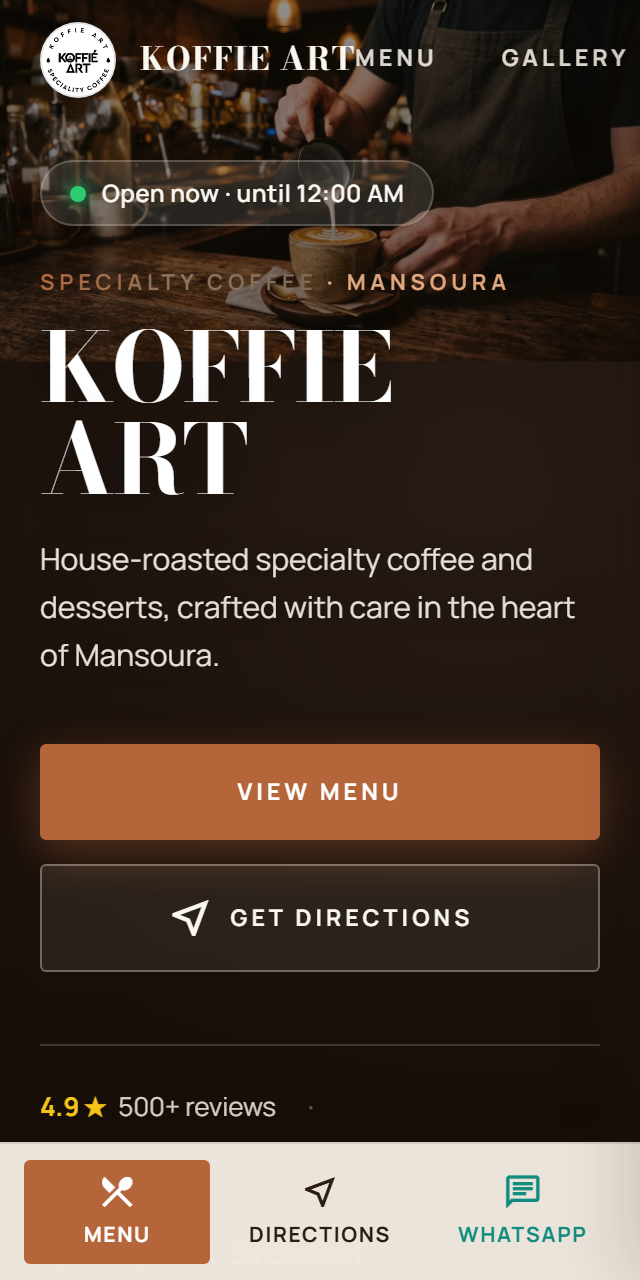
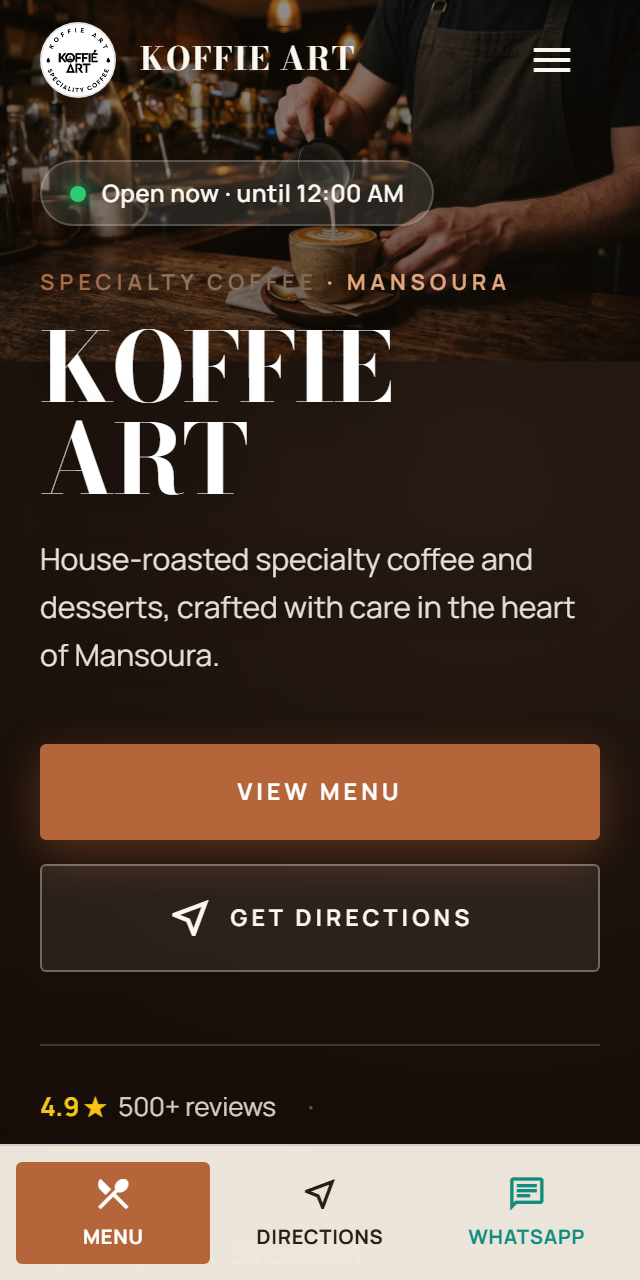
redisin

diff --git a/css/styles.css b/css/styles.css
@@ -64,6 +64,8 @@ body.theme-green,
 html {
     scroll-behavior: smooth;
     overflow-x: hidden;
+    max-width: 100vw;
+    width: 100%;
     -webkit-text-size-adjust: 100%;
 }
 
@@ -73,8 +75,31 @@ body {
     color: var(--ink);
     line-height: 1.6;
     overflow-x: hidden;
+    max-width: 100vw;
+    width: 100%;
     -webkit-font-smoothing: antialiased;
     -moz-osx-font-smoothing: grayscale;
+}
+
+/* Material Symbols Icon Sizing & Ligature containment */
+.material-symbols-outlined {
+    font-family: 'Material Symbols Outlined';
+    font-weight: normal;
+    font-style: normal;
+    font-size: 24px;
+    line-height: 1;
+    letter-spacing: normal;
+    text-transform: none;
+    display: inline-block;
+    white-space: nowrap;
+    word-wrap: normal;
+    direction: ltr;
+    -webkit-font-feature-settings: 'liga';
+    -webkit-font-smoothing: antialiased;
+    max-width: 24px;
+    max-height: 24px;
+    overflow: hidden;
+    vertical-align: middle;
 }
 
 /* Ensure body has bottom padding on mobile for sticky bottom bar */
@@ -363,6 +388,18 @@ input:focus-visible {
     color: #FAF6F0;
 }
 
+.site-nav {
+    display: flex;
+    align-items: center;
+    gap: 28px;
+}
+
+@media (max-width: 767px) {
+    .site-nav {
+        display: none !important;
+    }
+}
+
 .nav-link {
     font-family: 'Manrope', sans-serif;
     font-size: 11.5px;
@@ -422,12 +459,14 @@ input:focus-visible {
     backdrop-filter: blur(4px);
     z-index: 100;
     opacity: 0;
+    visibility: hidden;
     pointer-events: none;
-    transition: opacity 0.3s ease;
+    transition: opacity 0.3s ease, visibility 0.3s;
 }
 
 .mobile-menu-overlay.active {
     opacity: 1;
+    visibility: visible;
     pointer-events: auto;
 }
 
@@ -441,7 +480,7 @@ input:focus-visible {
     background-color: var(--bg);
     z-index: 101;
     padding: 72px 28px 36px;
-    display: flex;
+    display: none;
     flex-direction: column;
     justify-content: space-between;
     box-shadow: -8px 0 32px rgba(43, 29, 20, 0.15);
@@ -450,6 +489,7 @@ input:focus-visible {
 }
 
 .mobile-menu-drawer.active {
+    display: flex;
     transform: translateX(0);
 }
 
@@ -1406,7 +1446,7 @@ input:focus-visible {
     -webkit-backdrop-filter: blur(16px);
     border-top: 1px solid var(--outline-light);
     box-shadow: 0 -4px 20px rgba(43, 29, 20, 0.08);
-    padding-inline: 12px;
+    padding-inline: 8px;
     padding-block-start: 8px;
     padding-block-end: max(8px, env(safe-area-inset-bottom, 16px));
 }
@@ -1415,25 +1455,26 @@ input:focus-visible {
     .mobile-bottom-bar {
         display: flex;
         align-items: center;
-        justify-content: space-around;
-        gap: 8px;
+        justify-content: space-between;
+        gap: 6px;
     }
 }
 
 .bottom-bar-btn {
-    flex: 1;
+    flex: 1 1 0;
+    min-width: 0;
     display: inline-flex;
     flex-direction: column;
     align-items: center;
     justify-content: center;
     gap: 3px;
     min-height: 48px;
-    padding-inline: 6px;
+    padding-inline: 4px;
     padding-block: 6px;
     font-family: 'Manrope', sans-serif;
-    font-size: 10.5px;
+    font-size: 10px;
     font-weight: 700;
-    letter-spacing: 0.08em;
+    letter-spacing: 0.04em;
     text-transform: uppercase;
     text-decoration: none;
     color: var(--ink);
@@ -1614,10 +1655,15 @@ input:focus-visible {
     will-change: opacity, transform;
 }
 
-.reveal { transform: translateY(24px); }
-.reveal-left { transform: translateX(-24px); }
-.reveal-right { transform: translateX(24px); }
-.reveal-scale { transform: scale(0.96); }
+.reveal { transform: translateY(20px); }
+.reveal-left { transform: translateY(20px); }
+.reveal-right { transform: translateY(20px); }
+.reveal-scale { transform: scale(0.97); }
+
+@media (min-width: 768px) {
+    .reveal-left { transform: translateX(-24px); }
+    .reveal-right { transform: translateX(24px); }
+}
 
 .reveal.visible,
 .reveal-left.visible,

diff --git a/index.html b/index.html
@@ -107,7 +107,7 @@
             </a>
 
             <!-- Desktop Nav (Menu, Gallery, Visit, Contact) -->
-            <nav class="hidden md:flex items-center gap-8" aria-label="Main Navigation" style="display: flex; gap: 32px; align-items: center;">
+            <nav class="site-nav" aria-label="Main Navigation">
                 <a class="nav-link" href="menu.html">Menu</a>
                 <a class="nav-link" href="#gallery">Gallery</a>
                 <a class="nav-link" href="#visit">Visit</a>

diff --git a/menu.html b/menu.html
@@ -81,7 +81,7 @@
             </a>
 
             <!-- Desktop Nav -->
-            <nav class="hidden md:flex items-center gap-8" aria-label="Main Navigation" style="display: flex; gap: 32px; align-items: center;">
+            <nav class="site-nav" aria-label="Main Navigation">
                 <a class="nav-link" href="index.html">Home</a>
                 <a class="nav-link" href="index.html#gallery">Gallery</a>
                 <a class="nav-link" href="index.html#visit">Visit</a>
